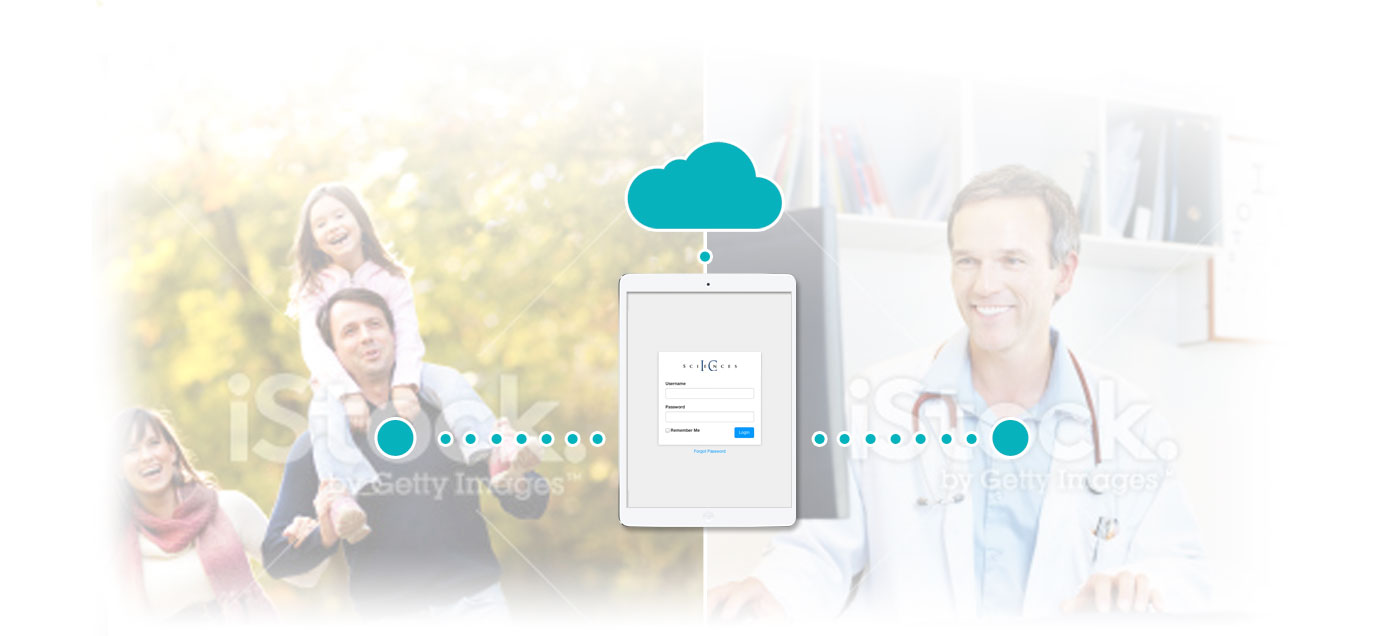
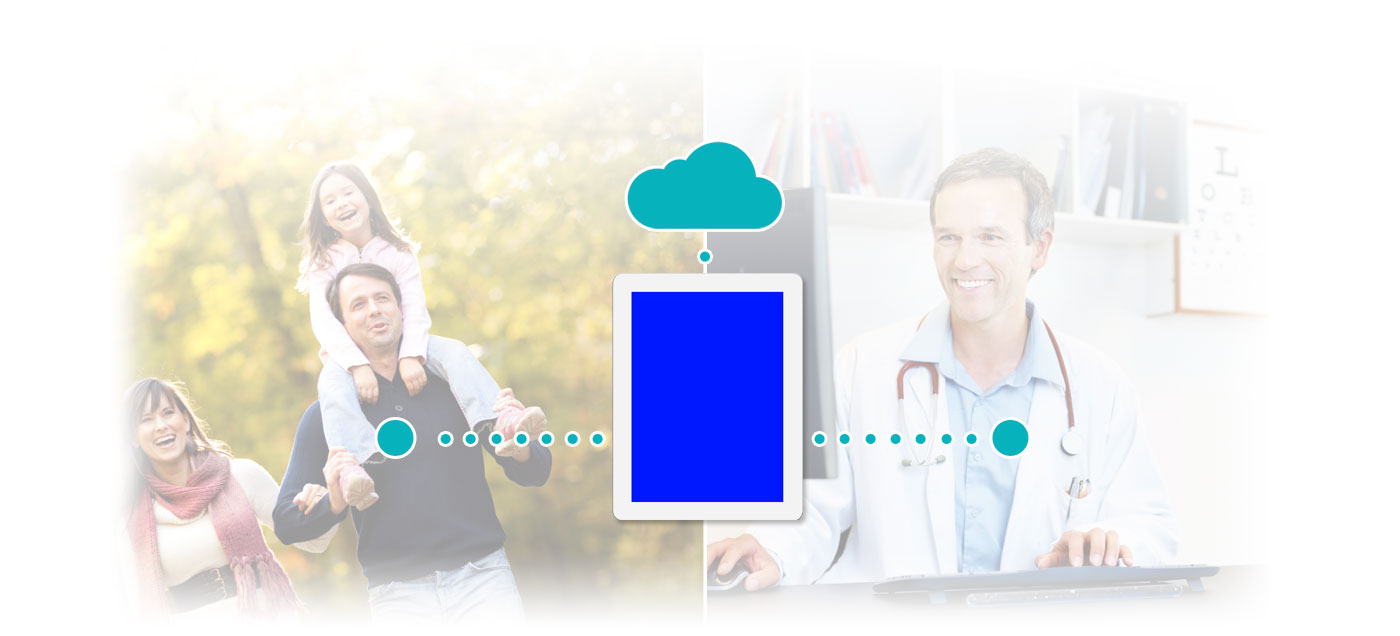
Added approach template, updated images

diff --git a/approach-page.html b/approach-page.html
@@ -1,0 +1,282 @@
+<!DOCTYPE html>
+<!--[if lt IE 7]>      <html class="no-js lt-ie9 lt-ie8 lt-ie7"> <![endif]-->
+<!--[if IE 7]>         <html class="no-js lt-ie9 lt-ie8"> <![endif]-->
+<!--[if IE 8]>         <html class="no-js lt-ie9"> <![endif]-->
+<!--[if gt IE 8]><!--> <html class="no-js"> <!--<![endif]-->
+<head>
+<meta charset="utf-8">
+<meta http-equiv="X-UA-Compatible" content="IE=edge,chrome=1">
+<title></title>
+<meta name="description" content="">
+<meta name="viewport" content="width=device-width, initial-scale=1, maximum-scale=1">
+
+<!-- main css compiled from main.less -->
+<link rel="stylesheet" href="css/frontend/main.css?v=2">
+
+<!-- default theme -->
+<link rel="stylesheet" href="css/frontend/themes/theme-ics.css">
+
+<!--[if lt IE 9]>
+	<link rel="stylesheet" href="css/frontend/ie.css">
+<![endif]-->
+
+<!-- moderizer: for ie8 compatibility -->
+<script type="text/javascript" src="js/vendor/modernizr-2.6.2-respond-1.1.0.min.js"></script>
+<script data-main="js/frontend/main" src="js/vendor/require.js"></script>
+</head>
+<body id="app-summary" class="content-page">
+
+<!--[if lt IE 7]>
+ 	<p class="chromeframe">You are using an <strong>outdated</strong> browser. Please <a href="http://browsehappy.com/">upgrade your browser</a> or <a href="http://www.google.com/chromeframe/?redirect=true">activate Google Chrome Frame</a> to improve your experience.</p>
+<![endif]-->
+
+<div class="wrap">
+
+	<!-- Header -->
+	<header id="header" class="header" role="banner">
+		<!-- Primary Nav -->
+		<!--role="navigation" used for accessibility -->
+			<nav class="navbar primary-nav" role="navigation">
+				<div class="container">
+					<div class="navbar-header">
+						<a href="" class="navbar-brand" title="{company name}">
+							<img src="img/frontend/icsciences-logo.png" class="logo-image" alt="ICSciences"/>
+						</a>
+						<button type="button" class="navbar-toggle" data-toggle="collapse" data-target=".navbar-ex1-collapse">
+							<span class="sr-only">Toggle navigation</span>
+							<span class="icon-bar"></span>
+							<span class="icon-bar"></span>
+							<span class="icon-bar"></span>
+						</button>
+					</div>
+					<div class="collapse navbar-collapse navbar-ex1-collapse">
+						<ul class="nav navbar-nav navbar-right">
+							<li class="dropdown"><a title="" href="#" class="dropdown-toggle" data-toggle="dropdown">Approach <b class="caret"></b></a><span class="indicator-active arrow-up"></span>
+								<ul class="dropdown-menu">
+									<li><a href="#">Action</a></li>
+								</ul>
+							</li>
+							<li><a href="" title="">Apps <b class="caret"></b></a><span class="indicator-active arrow-up"></span></li>
+							<li><a href="" title="">Devices <b class="caret"></b></a><span class="indicator-active arrow-up"></span></li>
+							<li class="featured-nav-item"><a href="" title="" >Store</a><span class="indicator-active arrow-up"></span></li>
+							<li class="featured-nav-item account-nav-item"><a href="" title="Log out" >Login</a></li>
+						</ul>
+					</div>
+				</div>
+			</nav>
+		<!-- // End Primary Nav -->
+	</header>
+	<!-- End Header -->
+	<!-- Central Graphic -->
+	<div class="central-graphic">
+		<div class="container">
+			<hgroup class="central-graphic-heading">
+				<h1>Approach</h1>
+				<h2>This line sums up the approach</h2>
+			</hgroup>
+		</div>
+	</div>
+
+
+	<div class="container main-container" role="main">
+			<div class="container">
+					<div class="approach-list">
+						<div class="row">
+							<div class="media col-md-8">
+								<div class="pull-left">
+									<img class="media-object approach-image" src="img/frontend/approach-1.png" alt="My BP Coach"/>
+								</div>
+								<div class="media-body">
+									<h3>Connect</h3>
+						<p>Patients can manually enter App-enabled test results data or upload App-enabled test results data via a blue tooth connectivity and supported Body Area Network devices. </p>
+								</div>
+							</div>
+						</div>
+						<div class="row">
+							<div class="media col-md-8 col-md-offset-4">
+								<div class="pull-right">
+									<img class="media-object approach-image" src="img/frontend/approach-2.png" alt="My BP Coach"/>
+								</div>
+								<div class="media-body">
+									<h3>Measure and Track</h3>
+						<p>Patients can measure and track App-enabled test result data and measurement time as well as compare daily results against historical averages.  </p>
+								</div>
+							</div>
+						</div>
+
+						<div class="row">
+							<div class="media col-md-8">
+								<div class="pull-left">
+									<img class="media-object approach-image" src="img/frontend/approach-3.png" alt="My BP Coach"/>
+								</div>
+								<div class="media-body">
+									<h3>Share</h3>
+						<p>Patients can share results instantly as well as historical data and trends with their care team, family and friends.</p>
+								</div>
+							</div>
+						</div>
+
+						<div class="row">
+							<div class="media col-md-8 col-md-offset-4">
+								<div class="pull-right">
+									<img class="media-object approach-image" src="img/frontend/approach-4.png" alt="My BP Coach"/>
+								</div>
+								<div class="media-body">
+									<h3>Educate</h3>
+						<p>Patients can receive alerts, updates, messages and educational information about their medical condition, as well as app test results, trends and goals. </p>
+								</div>
+							</div>
+						</div>
+
+						<div class="row">
+							<div class="media col-md-8">
+								<div class="pull-left">
+									<img class="media-object approach-image" src="img/frontend/approach-5.png" alt="My BP Coach"/>
+								</div>
+								<div class="media-body">
+									<h3>Set Goals</h3>
+						<p>Patients can set goals and measure and track their performance. As goals are achieved they can instantly be shared with their care team, family and friends.</p>
+								</div>
+							</div>
+						</div>
+
+						<div class="row">
+							<div class="media col-md-8 col-md-offset-4">
+								<div class="pull-right">
+									<img class="media-object approach-image" src="img/frontend/approach-6.png" alt="My BP Coach"/>
+								</div>
+								<div class="media-body">
+									<h3>Learn</h3>
+						<p>I.Q. 360 m|d-Health lets patients measure & record lots of stats about their bodies. I.Q. 360 s-Care lets patients learn about their health condition(s) when needed most. </p>
+								</div>
+							</div>
+						</div>
+					</div>
+			</div>
+			<!--
+			<div class="app-summary-list">
+				<div class="row">
+					<div class="col-lg-6">
+						<div class="row">
+							<div class="col-md-3 col-lg-5 col-sm-4">
+								<img src="img/frontend/my-bp-coach-app-image.png" alt="My BP Coach"/>
+							</div>
+							<div class="col-md-9 col-lg-7 col-sm-8 app-list-content">
+								<h3><a href="" title="">My BP Coach</a></h3>
+				<p>Monitoring hypertension is convenient with “My BP Coach”, an I.C. Sciences m|d-Health Smart Care App.  Simply Connect to any supported monitoring device with Bluetooth</p>
+								<div>
+									<a class="app-badge" href="">
+									<img alt="Get it on Google Play"
+									src="img/frontend/app-store-badge.png" />
+									</a> 
+									<a href="https://play.google.com/store/apps/details?id=com.example.com">
+									<img alt="Get it on Google Play"
+									src="https://developer.android.com/images/brand/en_generic_rgb_wo_45.png" />
+									</a>
+								</div>
+							</div>
+						</div>
+					</div>
+					<div class="col-lg-6">
+						<div class="row">
+							<div class="col-sm-3 col-lg-5">
+								<img src="img/frontend/my-bp-coach-app-image.png" alt="My BP Coach"/>
+							</div>
+							<div class="col-sm-9 col-lg-7 app-list-content">
+								<h3><a href="" title="">My BP Coach</a></h3>
+				<p>Monitoring hypertension is convenient with “My BP Coach”, an I.C. Sciences m|d-Health Smart Care App.  Simply Connect to any supported monitoring device with Bluetooth</p>
+								<div>
+									<a class="app-badge" href="">
+									<img alt="Get it on Google Play"
+									src="img/frontend/app-store-badge.png" />
+									</a> 
+									<a href="https://play.google.com/store/apps/details?id=com.example.com">
+									<img alt="Get it on Google Play"
+									src="https://developer.android.com/images/brand/en_generic_rgb_wo_45.png" />
+									</a>
+								</div>
+							</div>
+						</div>
+					</div>
+				</div>
+			</div>
+		-->
+	</div>
+
+	<!-- About -->
+	<div class="page-section about-ics reverse">
+		<div class="container">
+			<div class="row">
+				<div class="col-md-7 about-section">
+					<h2>About I.C. Sciences</h2>
+					<p>Informed Clinical Sciences Corporation is a worldwide designer and developer of 
+medical informatics instruments (MIIs) and systems for delivering electronic medical care. The corporation is a closely held, private organization pioneering in the medical information sciences and informatics interventions markets.</p>
+				</div>
+				<div class="col-md-4 col-md-offset-1 about-links about-section">
+					<ul class="links-list">
+						<li><a href="" title="">Mission and values</a></li>
+						<li><a href="" title="">Corporate Governance</a></li>
+						<li><a href="" title="">Contact us</a></li>
+						<li><a href="" title="">Careers</a></li>
+					</ul>
+				</div>
+			</div>
+		</div>
+	</div>
+
+	<footer class="footer">
+		<div class="container">
+			<div class="row">
+				<div class="col-md-3 footer-section footer-nav">
+					<h4>I.C Sciences</h4>
+					<ul>
+						<li><a href="" title="">Approach</a></li>
+						<li><a href="" title="">Apps</a></li>
+						<li><a href="" title="">Supported Devices</a></li>
+						<li><a href="" title="">About</a></li>
+					</ul>
+				</div>
+				<div class="col-md-4 footer-section email-signup">
+					<h4>Email Signup</h4>
+					<div class="form">
+						  <div class="form-group">
+						    <label for="exampleInputEmail1" class="sr-only">Email address</label>
+						    <input type="email" class="form-control" id="exampleInputEmail1" placeholder="Enter email">
+						  </div>
+						   <button type="submit" class="btn btn-default">Submit</button>
+					</div>
+				</div>
+				<div class="col-md-3 col-md-offset-1 footer-section footer-connect">
+					<h4>Connect</h4>
+					<dl>
+						<dt>IC Sciences Corporation</dt>
+						<dd>One Joy Street. Boston, MA 02108</dd>
+						<dd><strong>Phone:</strong> <span>617-259-3300</span></dd>
+						<dd><strong>Toll Free:</strong> <span>866-804-6296</span></dd>
+					</dl>
+					<p>Connect with I.C. Sciences and keep up with the latest news and announcements.</p>
+					<a href="" title="" class="ir social-icon icon-facebook">Facebook</a>
+					<a href="" title="" class="ir social-icon icon-linked-in">Linked In</a>
+					<a href="" title="" class="ir social-icon icon-twitter">Twitter</a>
+					<a href="" title="" class="ir social-icon icon-google-plus">Google +</a>
+				</div>
+			</div>
+		</div>
+
+		<div class="copyright">
+			<div class="container">
+				<div class="row">
+					<div class="col-md-9">
+						&copy; 2014 IC Sciences Corporation. All rights reserved.
+					</div>
+					<div class="col-md-3">
+						<a href="" title="">Sitemap</a>   |  <a href="" title=""> Privacy Policy </a>  |   <a href="" title="">Terms</a>
+					</div>
+				</div>
+			</div>
+		</div>
+	</footer>
+	</div>
+</div>
+</body>
+</html>

diff --git a/css/frontend/themes/theme-ics.css b/css/frontend/themes/theme-ics.css
@@ -666,7 +666,7 @@ h2 + h3 {
 .app-page .test-section .gs4-image {
   position: absolute;
   margin-top: 30px;
-  top: 20px;
+  top: -10px;
 }
 @media (max-width: 991px) {
   .app-page .test-section .gs4-image {
@@ -788,6 +788,9 @@ h2 + h3 {
 }
 #team .featured-item hgroup {
   margin-bottom: 10px;
+}
+.approach-image {
+  width: 200px;
 }
 .product-list .item-image > img {
   margin: auto;
@@ -1002,22 +1005,22 @@ h2 + h3 {
 .icon-google-plus {
   background-position: -520px -120px;
 }
-.app-list li {
+#home .app-list li {
   margin-top: 30px;
 }
-.app-list li:first-child {
+#home .app-list li:first-child {
   margin-top: 0;
 }
-.app-list .app-name {
+#home .app-list .app-name {
   margin-bottom: 5px;
   color: #000000;
   font-weight: bold;
 }
-.app-list .app-description {
+#home .app-list .app-description {
   font-size: 12px;
   margin-bottom: 5px;
 }
-.app-list .media-body {
+#home .app-list .media-body {
   font-size: 12px;
 }
 .intelliquest360-logo {

diff --git a/less/frontend/themes/theme-ics.less b/less/frontend/themes/theme-ics.less
@@ -686,7 +686,7 @@ h1 + h2, h2 + h3
 		.gs4-image {
 			position:absolute;
 			margin-top: 30px;
-			top: 20px;
+			top: -10px;
 
 			@media (max-width: @screen-sm-max) {
 				width:250px;
@@ -833,6 +833,10 @@ h1 + h2, h2 + h3
 	}
 
 
+}
+
+.approach-image {
+	width:200px;
 }
 
 
@@ -1004,7 +1008,7 @@ h1 + h2, h2 + h3
 	background-position: -520px -120px;
 }
 
-.app-list {
+#home .app-list {
 	li {
 		margin-top:30px;
 		&:first-child {
